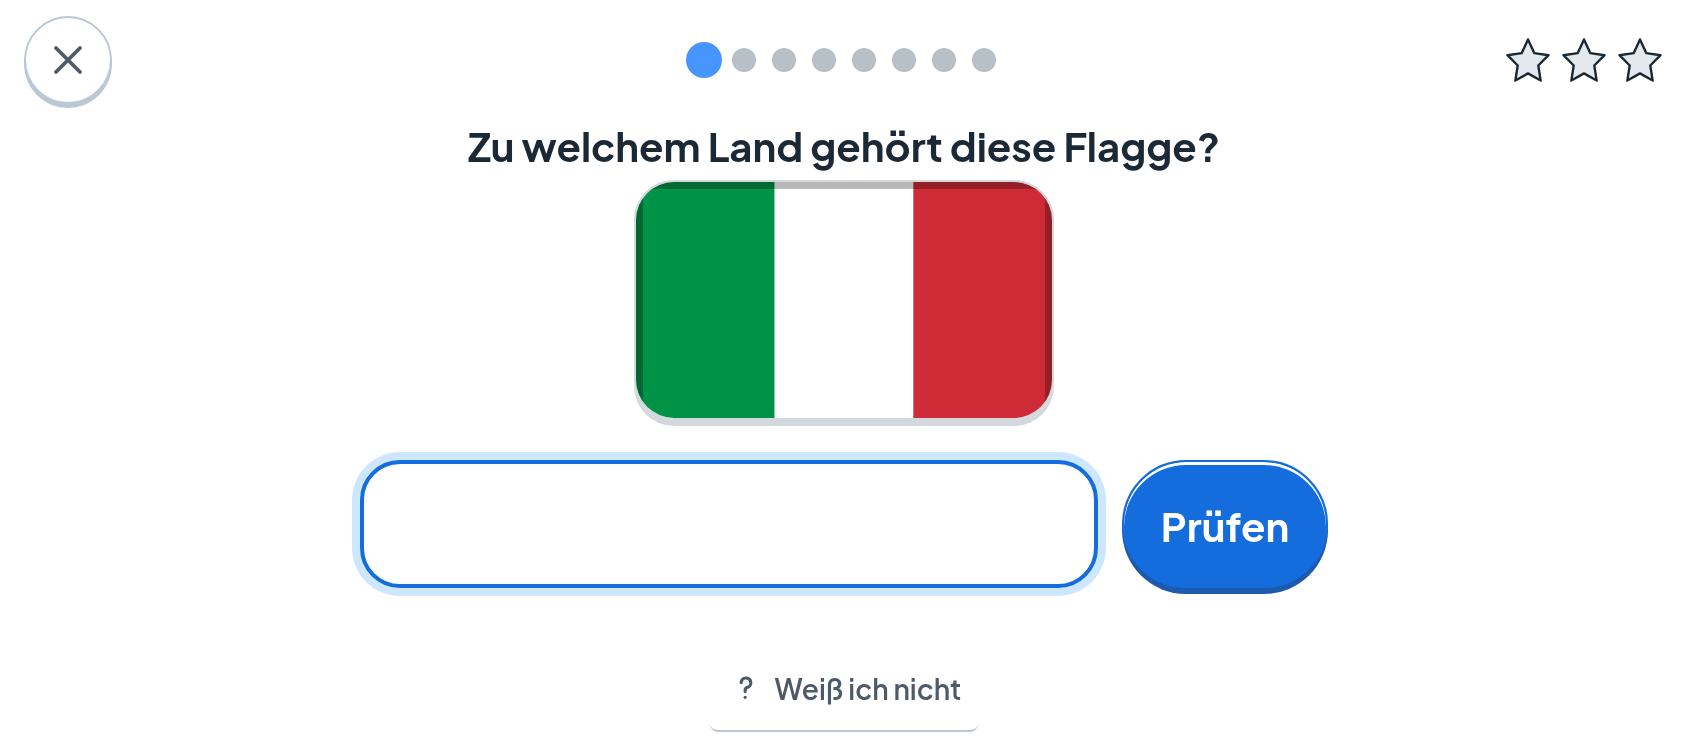
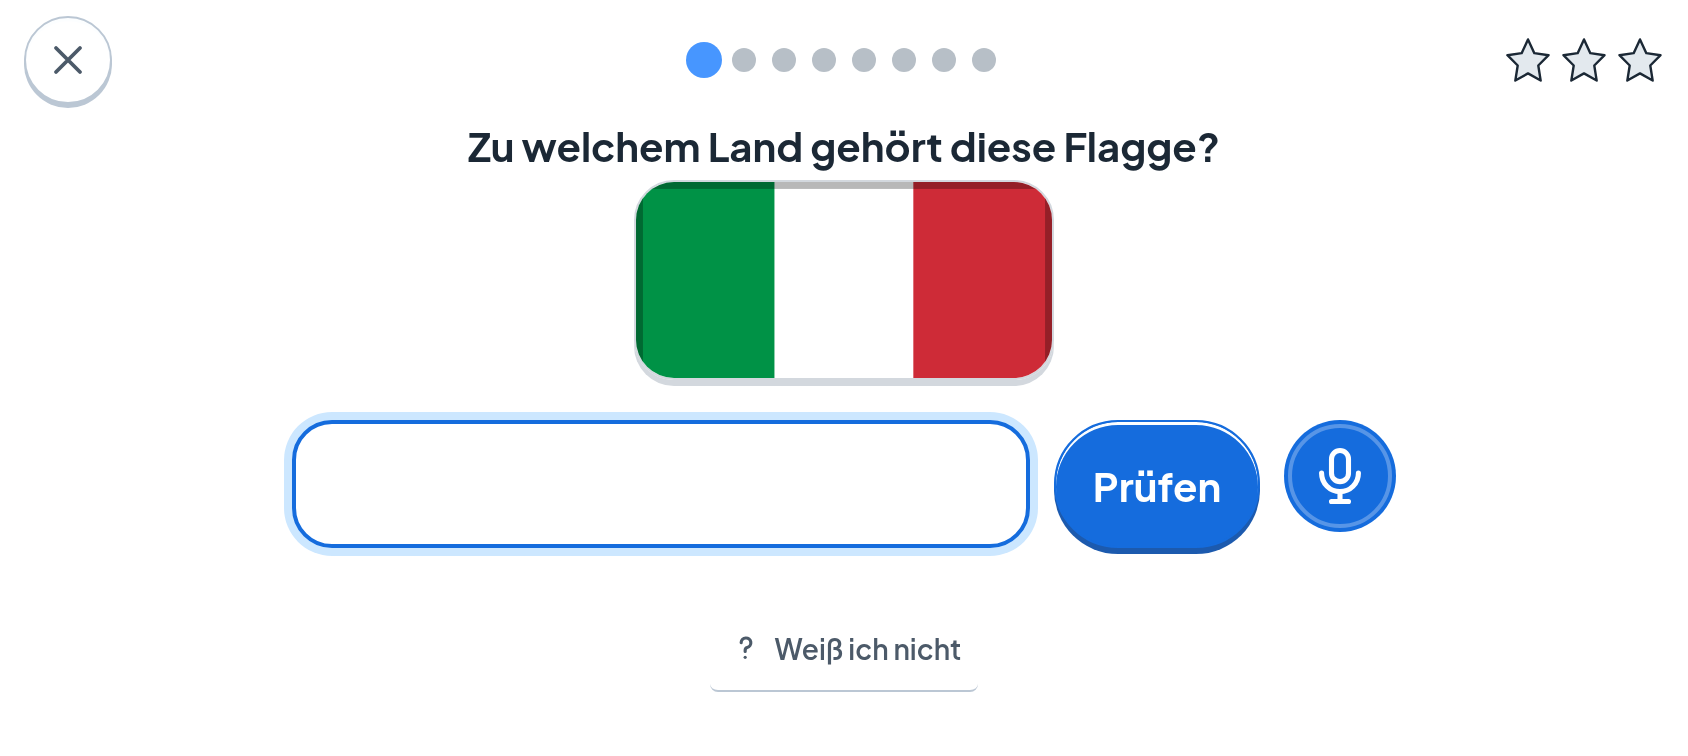
Ein Mikrofon neben einer Landkarte - siebzehn Tore liefen daran vorbei
Die erste Aufnahme von "Auf die Karte" (F4) zeigte es sofort: neben der
Europakarte stand ein Mikrofon. Auf dieser Ebene IST die Karte die
Antwortliste - man tippt auf ein Land, es gibt nichts zu sagen.

Bemerkenswert ist nicht der Fehler, sondern sein Alter. Im Quelltext steht
seit B3, bei der umgekehrten Frage: "Kein Etikett, kein Feld, kein
Mikrofon." Angehaengt wurde es trotzdem, zweihundert Zeilen weiter oben
und ohne Bedingung. Der Satz war richtig, das Programm tat etwas anderes,
und niemand hat je hingesehen: die umgekehrte Frage ist in den
Erdkundeebenen erst die dritte, und keine Aufnahme hatte sie je erwischt.

Dazu die Aufnahme selbst, ein Eintrag in OHNE_KARTE fuer flaggen:karte
(die Ebene traegt dieselbe Art und zeigt das Gegenteil - ohne ihn wartete
die Aufnahme 25 s auf eine Flaggenkarte und riss den Lauf ab), das
erneuerte Vorbild fuer den Flaggenschirm mit Mikrofon und eine
Gegenprobe, die das Mikrofon wieder anhaengt.

Claude-Session: https://claude.ai/code/session_01GwecUQxeRqJxKHLkGsVrjv

Changed region(s): [[0.154, 0.4563, 0.8318, 0.791], [0.4313, 0.8519, 0.5853, 0.9431]]

diff --git a/prototyp/spiel.js b/prototyp/spiel.js
@@ -6074,8 +6074,18 @@ function spielschirm(){
   }
 
   /* Der Sprachweg steht seit F2b als eigenes Bauteil daneben - er ist
-     nicht mehr die Sache dieses Bildschirms, sondern die des Mikrofons. */
-  sprachweg({ spricht, werkzeug, liste, bewerte });
+     nicht mehr die Sache dieses Bildschirms, sondern die des Mikrofons.
+     
+     NICHT bei der umgekehrten Frage. Dort IST die Karte die Antwortliste
+     (siehe unten): getippt wird auf ein Gebiet, und es gibt nichts zu
+     sagen. Der Satz „kein Etikett, kein Feld, kein Mikrofon" stand seit
+     B3 im Quelltext - das Mikrofon stand trotzdem da, denn angehaengt
+     wurde es weiter oben und ohne Bedingung. Aufgefallen ist es an der
+     ersten Aufnahme von „Auf die Karte" (F4): dort ist JEDE Frage die
+     umgekehrte, und da stand ein Mikrofon neben einer Landkarte. Kein
+     Tor ersetzt den Blick (Regel 4) - siebzehn davon liefen daran
+     vorbei. */
+  if (!umgekehrt) sprachweg({ spricht, werkzeug, liste, bewerte });
 
   /**
    * Wohin zeigt der Finger? MIT Nachsicht.

diff --git a/docs/Lernkiste-STAND.md b/docs/Lernkiste-STAND.md
@@ -11347,6 +11347,23 @@ Profildurchlauf hängt, **nennt die Ebene**, bei der er zugeschlagen hat. Der
 erste Lauf mit dieser einen Zeile mehr zeigte die Stelle sofort — sie lag nicht
 auf `flaggen:karte`, sondern auf der Ebene **danach**.
 
+### Ein Mikrofon neben einer Landkarte — siebzehn Tore liefen daran vorbei
+
+Die erste Aufnahme von „Auf die Karte" zeigte es sofort: neben der Europakarte
+stand ein **Mikrofon**. Auf dieser Ebene ist die Karte die Antwortliste — man
+tippt auf ein Land, es gibt nichts zu sagen.
+
+Das Bemerkenswerte ist nicht der Fehler, sondern sein Alter. Im Quelltext steht
+seit B3, bei der umgekehrten Frage: *„Kein Etikett, kein Feld, kein Mikrofon."*
+Angehängt wurde es trotzdem, zweihundert Zeilen weiter oben und ohne Bedingung.
+Der Satz war richtig, das Programm tat etwas anderes, und **niemand hat je
+hingesehen** — die umgekehrte Frage ist in den Erdkundeebenen erst die dritte,
+und keine einzige Aufnahme hatte sie je erwischt.
+
+Kein Tor ersetzt den Blick (Regel 4). Seit dieser Runde gibt es das Vorbild,
+und das Vorbild meldet sich — samt Gegenprobe, die das Mikrofon wieder
+anhängt.
+
 ### Und die Lücke, die schon im Backlog stand — nachgemessen
 
 Dort stand: nimmt man einer Ebene ihren Bildschirm (`schirmZu`), bleibt der
